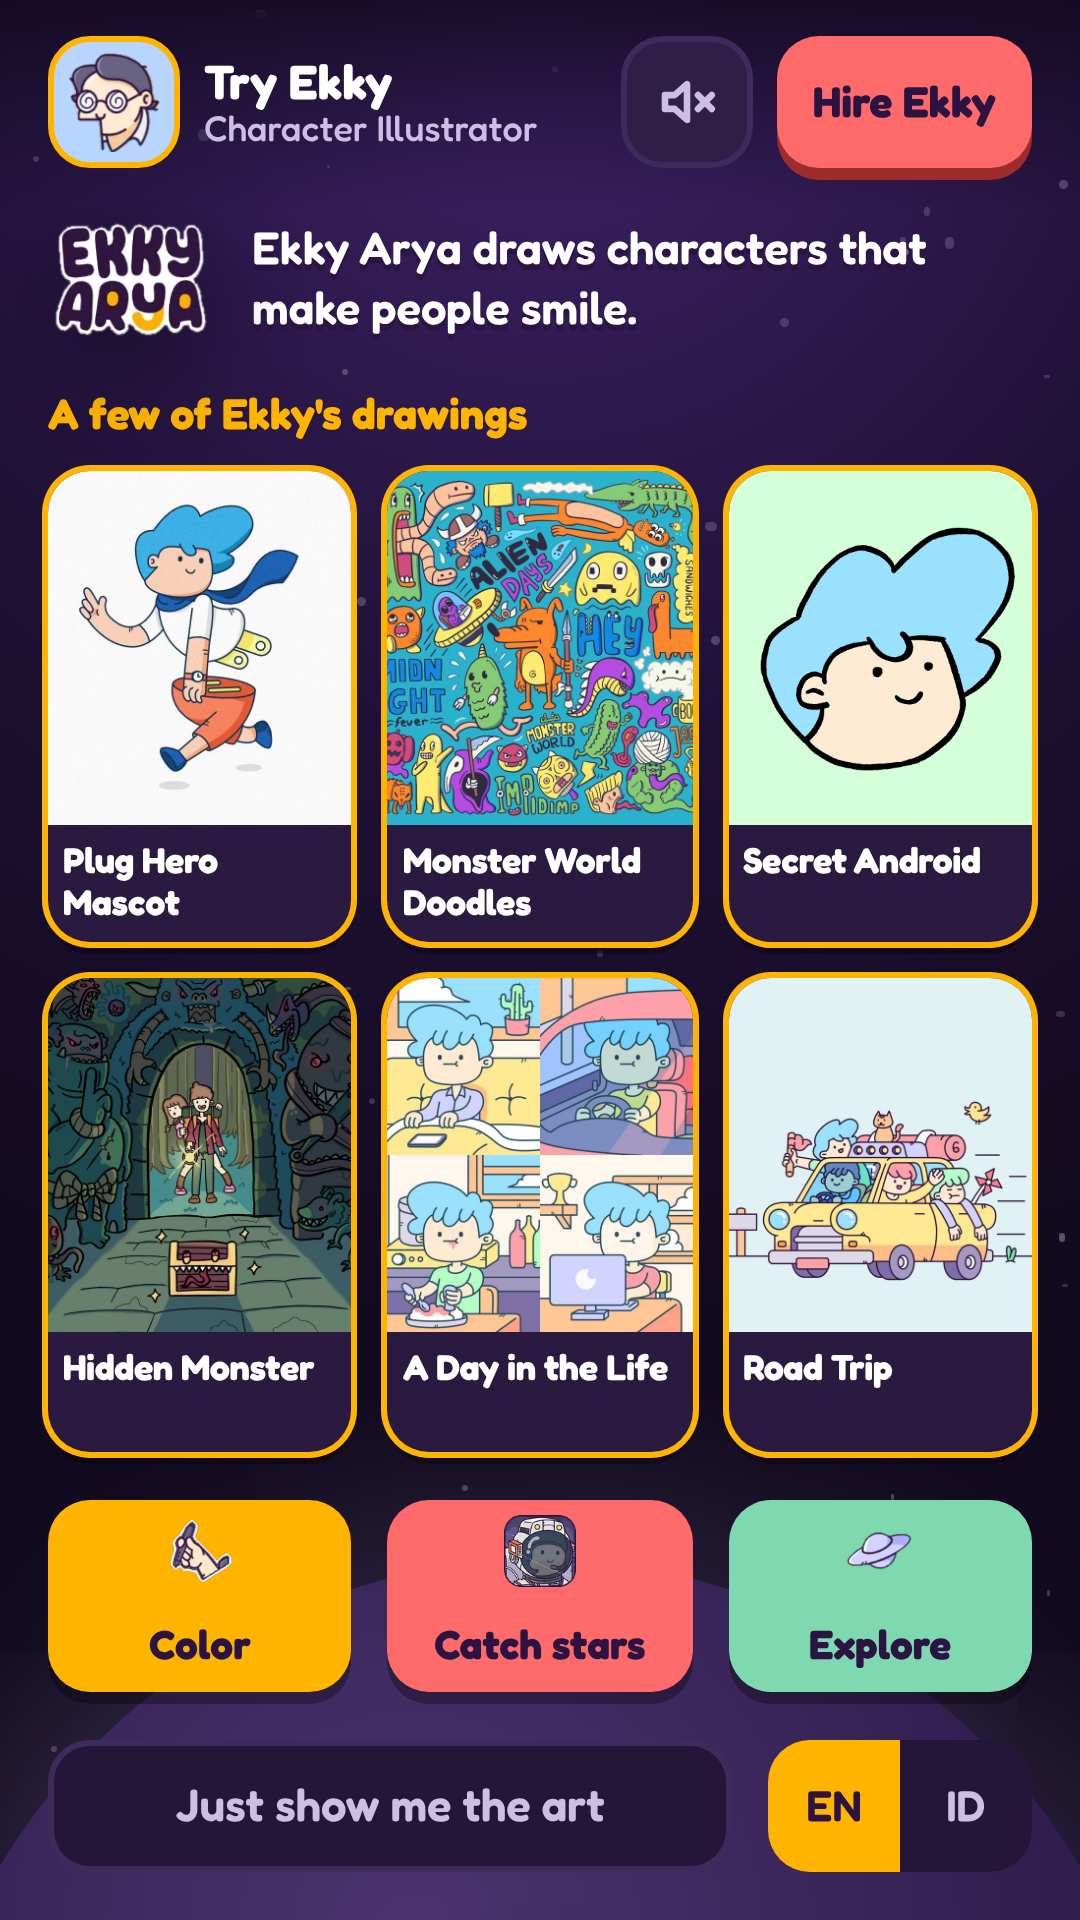
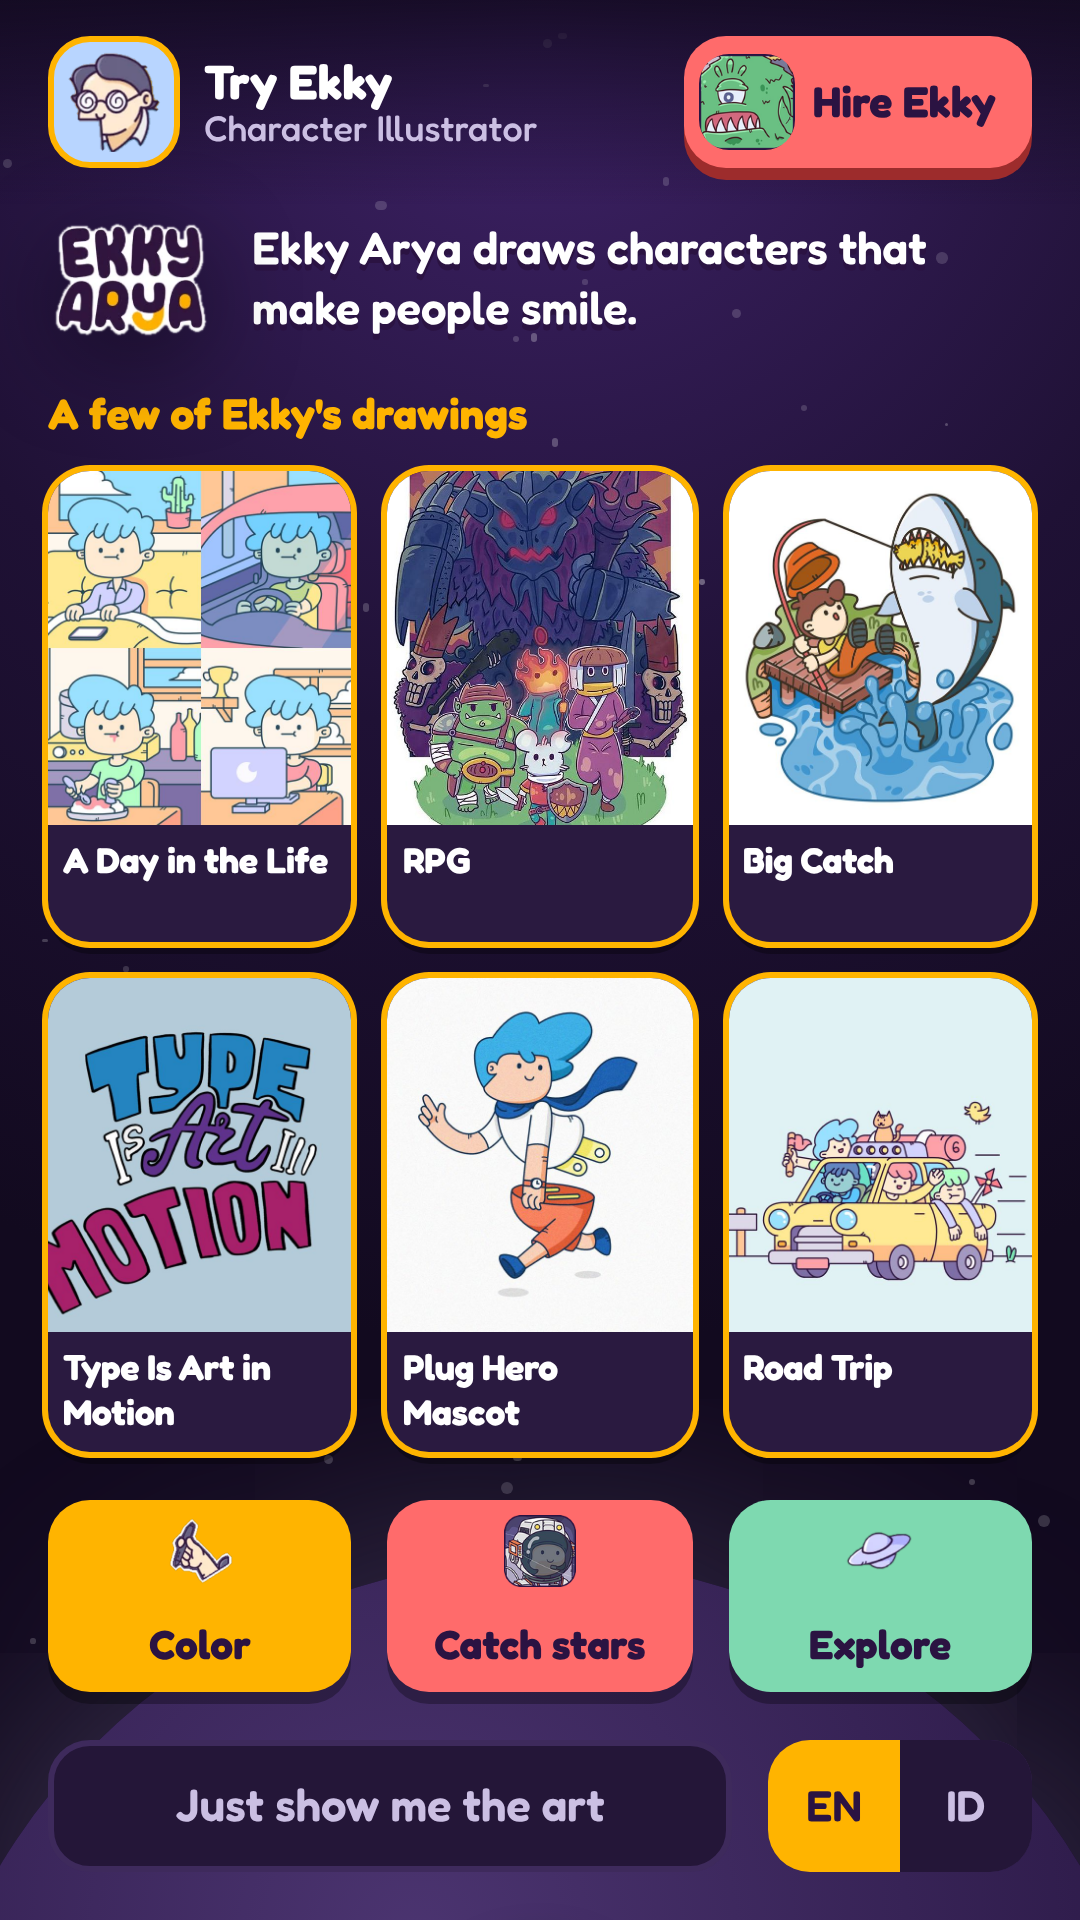
Start screen fixes for UX acceptance: still frames for animated pieces, a narrow-phone header, 2-line titles
- Animated pieces (Type Is Art in Motion, Secret Android, the Adventure Time fan art) get a still poster frame in
  assets/work/thumb/<slug>.jpg (the frame with the most drawn on it); grids and cards use it, the lightbox still plays
  the animation. The Type Is Art tile was an empty grey box (the GIF's first frame is blank).
- Under 380 px the header drops its sound button (Mine has the Sound switch); title and role sit on one line, never
  cut, in EN and ID at 360, 375 and 390 px. The Hire chip keeps its picture.
- Titles clamp to 2 lines with an ellipsis as a safety net; with the UX lead's shorter 'Banner Karakter' (ux/r1
  4024b79, cherry-picked) all 92 titles fit in 2 lines at 360 px.

Claude-Session: https://claude.ai/code/session_014vZdpTepmb6uBiaAW96HMH

diff --git a/js/game.js b/js/game.js
@@ -60,7 +60,7 @@ G.addEventListener("click",e=>{const g=e.target.closest("[data-go]");if(g){buzz(
 
 /* ---- start screen: the featured six open the lightbox ---- */
 function renderStart(){const six=featuredSix().map(p=>({p,i:PROJECTS.indexOf(p)}));
-  $("gFeatured").innerHTML=six.map(({p,i})=>`<button class="g-feat" data-i="${i}" aria-label="${esc(ptitle(p))}"><img src="${p.img}" alt="" decoding="async"><b>${esc(ptitle(p))}</b></button>`).join("")}
+  $("gFeatured").innerHTML=six.map(({p,i})=>`<button class="g-feat" data-i="${i}" aria-label="${esc(ptitle(p))}"><img src="${thumbOf(p)}" alt="" decoding="async"><b>${esc(ptitle(p))}</b></button>`).join("")}
 $("gFeatured").addEventListener("click",e=>{const b=e.target.closest(".g-feat");if(b){buzz(10);show(+b.dataset.i)}});
 
 /* ---- map: Ekky's Village (B42 V1). One pre-composited picture (scripts/village.py: plain ground shapes plus Ekky's
@@ -83,7 +83,7 @@ function renderMap(){
   W.style.height="";W.className="g-map-wrap v-map";W.style.aspectRatio=`${V.w}/${V.h}`;
   W.innerHTML=`<img class="v-ground" src="assets/village/village.png" alt="" decoding="async" fetchpriority="high">`+
     V.frames.map((f,k)=>{const p=art[k];if(!p)return "";const deg=(Math.atan(f.slope)*180/Math.PI).toFixed(2);
-      return `<img class="v-frame" src="${p.img}" alt="" decoding="async" style="left:${pct(f.x,V.w)};top:${pct(f.y,V.h)};width:${pct(f.w,V.w)};height:${pct(f.h,V.h)};transform:skewY(${deg}deg)">`}).join("")+
+      return `<img class="v-frame" src="${thumbOf(p)}" alt="" decoding="async" style="left:${pct(f.x,V.w)};top:${pct(f.y,V.h)};width:${pct(f.w,V.w)};height:${pct(f.h,V.h)};transform:skewY(${deg}deg)">`}).join("")+
     places.map(p=>{const b=V.places[p.id].box,l=V.places[p.id].label;
       return `<button class="v-place${p.hire?" hire":""}" data-place="${p.id}" style="left:${pct(b[0],V.w)};top:${pct(b[1],V.h)};width:${pct(b[2]-b[0],V.w)};height:${pct(b[3]-b[1],V.h)}" aria-label="${esc(t(p.key))}"></button>
       <span class="v-label${p.hire?" hire":""}" aria-hidden="true" style="left:${pct(l[0],V.w)};top:${pct(l[1],V.h)}">${esc(t(p.key))}</span>`}).join("");
@@ -115,7 +115,7 @@ function openLevel(i){const l=LEVELS[i];
   if(l.id==="about"){const three=featuredSix(3).map(p=>({p,k:PROJECTS.indexOf(p)}));
     const facts=["about.fact.from","about.fact.lang","about.fact.hours","about.fact.price","about.workedWith"].map(k=>t(k)).filter(v=>v&&!v.startsWith("about."));
     openSheet(head(l)+`<p>${esc(t("about.body"))}</p>${facts.length?`<ul class="g-facts">${facts.map(f=>`<li>${esc(f)}</li>`).join("")}</ul>`:""}<h3 class="g-sheet-h3">${esc(t("about.pieces"))}</h3>
-      <div class="g-three">${three.map(({p,k})=>`<button class="g-feat" data-i="${k}" aria-label="${esc(ptitle(p))}"><img src="${p.img}" alt="" loading="lazy"><b>${esc(ptitle(p))}</b></button>`).join("")}</div>`+hireChip())}
+      <div class="g-three">${three.map(({p,k})=>`<button class="g-feat" data-i="${k}" aria-label="${esc(ptitle(p))}"><img src="${thumbOf(p)}" alt="" loading="lazy"><b>${esc(ptitle(p))}</b></button>`).join("")}</div>`+hireChip())}
   if(l.id==="process"){openSheet(head(l)+`<p>${esc(t("process.intro"))}</p>`+
     [["Brief & chat","We talk about your idea, audience and the feeling it should give."],["Sketches","Rough concepts so we pick a direction early."],["Color & polish","Line, color and texture, with room for revisions."],["Delivery","Final files for print, web and social."]]
      .map(([h,d],k)=>`<div class="g-quest" data-k="${k}"><span class="chk">${ico("i-check")}</span><div><b>${esc(tt(`process.step${k+1}`,h))}</b><p>${esc(tt(`process.step${k+1}.body`,d))}</p></div></div>`).join("")+hireChip());

diff --git a/js/site.js b/js/site.js
@@ -39,7 +39,9 @@ function makeArt(p){
   return `<svg viewBox="0 0 400 300" preserveAspectRatio="xMidYMid slice" role="img" aria-label="${p.title} artwork"><rect width="400" height="300" fill="${bg}"/>${s}</svg>`;
 }
 // A project with `img` shows that file; if it fails to load, the drawn placeholder takes its place.
-function artOf(p,big){return p.img?`<img src="${big&&p.full||p.img}" alt="${ptitle(p)}" loading="lazy" decoding="async" onload="this.classList.add('ok')" onerror="this.outerHTML=makeArt(PROJECTS[${PROJECTS.indexOf(p)}])">`:makeArt(p)}
+// Animated pieces (GIF) show a still poster frame (assets/work/thumb/<slug>.jpg) in grids; the lightbox plays the animation.
+const thumbOf=p=>/\.gif$/i.test(p.img)?`assets/work/thumb/${p.slug}.jpg`:p.img;
+function artOf(p,big){return p.img?`<img src="${big&&p.full||thumbOf(p)}" alt="${ptitle(p)}" loading="lazy" decoding="async" onload="this.classList.add('ok')" onerror="this.outerHTML=makeArt(PROJECTS[${PROJECTS.indexOf(p)}])">`:makeArt(p)}
 const catImg=(c,cls="cat-ico")=>`<img class="${cls}" src="${CAT_ICON[c]}" alt="">`;
 // "Fan art", "Client: X" ... from PROJECTS; Ekky's own pieces have no tag.
 const tagOf=p=>p.label?`<span class="tag">${plabel(p)}</span>`:"";
@@ -73,7 +75,7 @@ document.querySelectorAll("#sideCats button,[data-jump]").forEach(b=>b.addEventL
 
 /* ===== Selected work: the featured six under the hero (B08) ===== */
 document.getElementById("featStrip").innerHTML=featuredSix().map(p=>({p,i:PROJECTS.indexOf(p)}))
-  .map(({p,i})=>`<button class="feat" data-i="${i}"><img src="${p.img}" alt="" loading="lazy" decoding="async"><span>${ptitle(p)}</span></button>`).join("");
+  .map(({p,i})=>`<button class="feat" data-i="${i}"><img src="${thumbOf(p)}" alt="" loading="lazy" decoding="async"><span>${ptitle(p)}</span></button>`).join("");
 document.getElementById("featStrip").addEventListener("click",e=>{const b=e.target.closest(".feat");if(b)show(+b.dataset.i)});
 
 /* ===== Lightbox ===== */

diff --git a/css/game.css b/css/game.css
@@ -432,11 +432,12 @@ body.game-mode .toast.show{transform:translate(-50%,0)}
 .g-start-foot .g-classic,.g-start-foot .lang-switch{height:44px;min-height:44px}
 .g-featured .g-feat{border:0;box-shadow:0 0 0 2px #FFB400,var(--lift)}
 .g-featured .g-feat b{padding:5px 5px 6px;letter-spacing:-.01em}
-.g-featured .g-feat b{-webkit-line-clamp:3}   /* two lines are reserved; a long Indonesian title may take a third */
+.g-featured .g-feat b{-webkit-line-clamp:2;text-overflow:ellipsis}   /* two lines; an ellipsis only as a safety net */
 /* the village uses the free height evenly: centred between the header and the tab bar */
 #g-map.active{display:flex;flex-direction:column}
 #g-map .v-map{margin:auto}
 /* narrow phones (360 px): the Hire chip drops its picture so the header stays on one line in every language */
-@media (max-width:380px){.g-hud .g-hire img{display:none}.g-hud .g-hire{padding:0 12px}}
+/* narrow phones (under 380 px): the header drops its sound button (Mine has the Sound switch) so title and role fit */
+@media (max-width:380px){#game .g-hud .g-round{display:none}}
 .g-player b,.g-player small{white-space:nowrap}
 .g-start-foot .lang-switch{border:0;box-shadow:inset 0 0 0 2px #3e2a5c}   /* the outline takes no space, so EN and ID stay 44 px tall */
